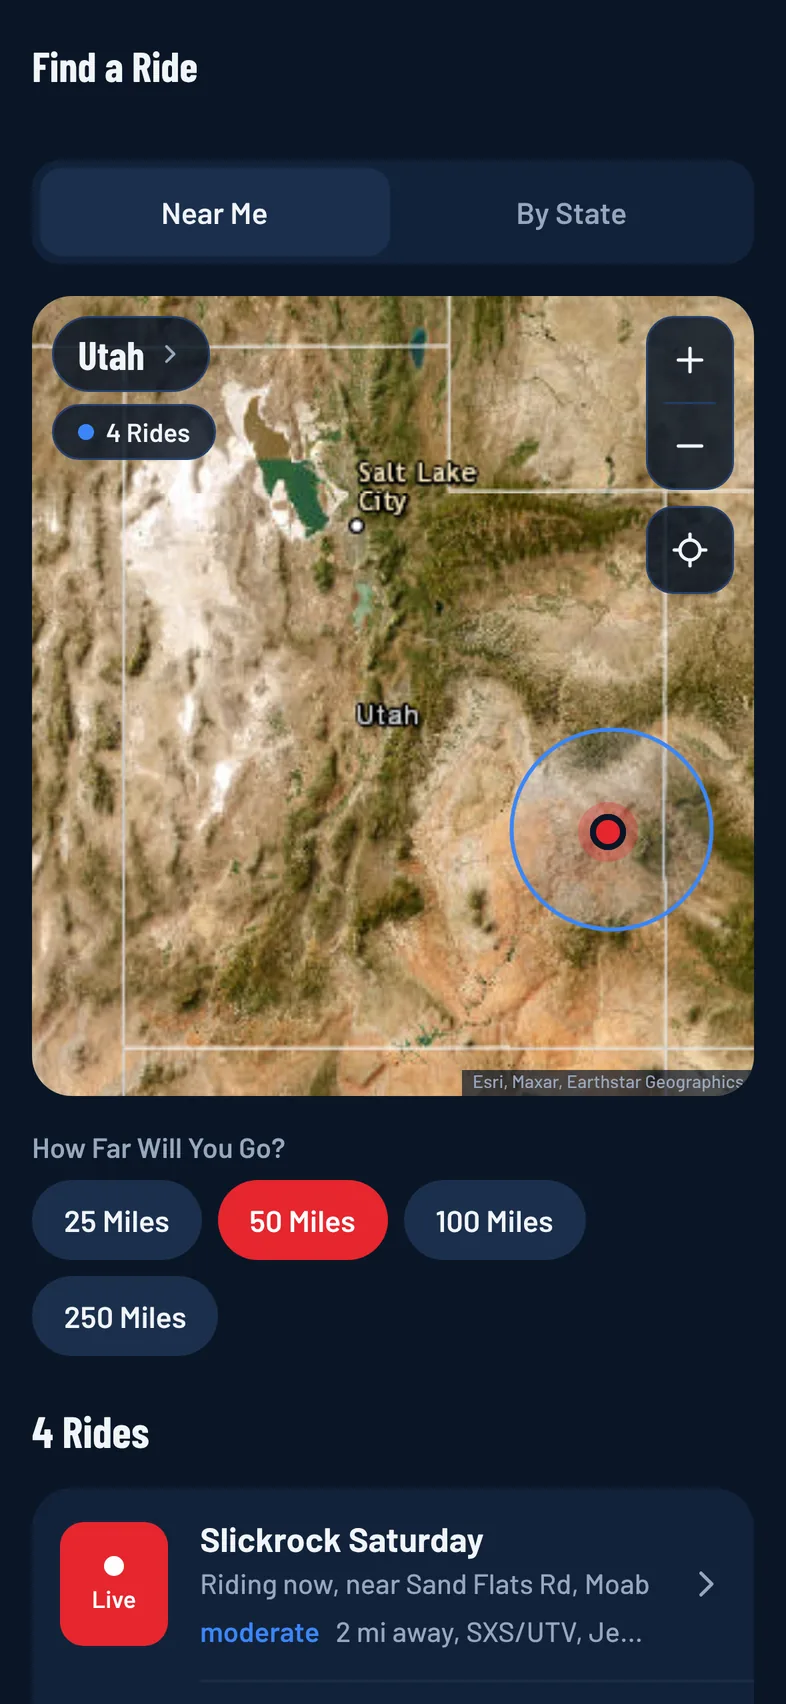
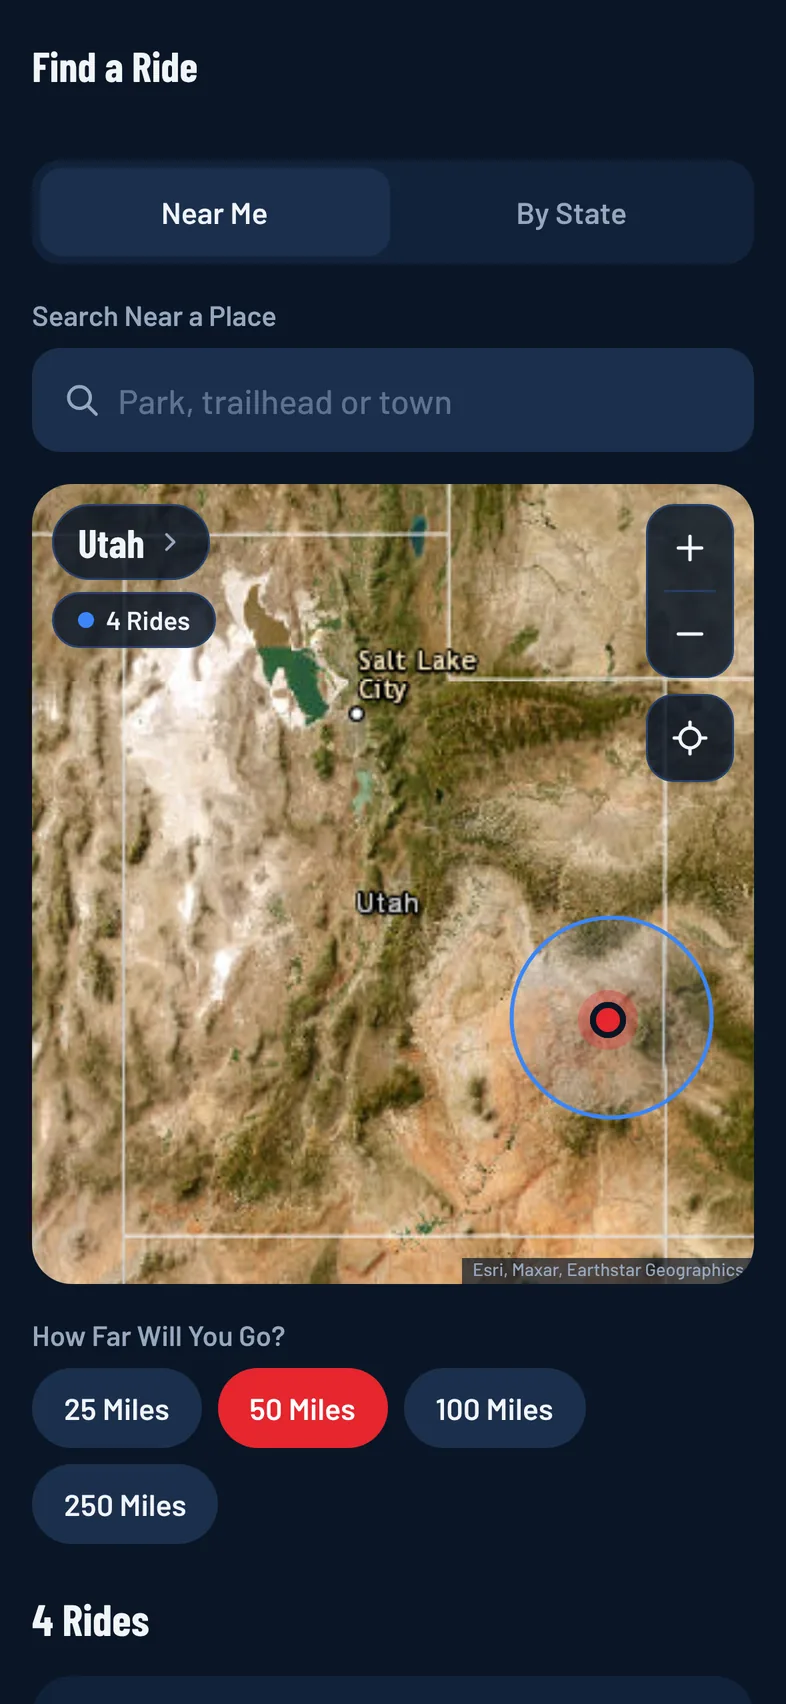
Website: add Mapped or Freeride, place search, waypoints, chat message states and OpenStreetMap trails (#61)
Catch-up pass so the showcase lists what merged in #47, #49, #50, #53, #54 and #56:
- Step 1 Create a Ride: Mapped or Freeride, meeting spot search by park,
  trailhead, town or street address (new screenshot)
- Step 2: find rides near a searched park or trailhead (fresh Find a Ride shot)
- New step 4 Mark the Trail: waypoints, Everyone on the Ride or Just Me, never
  public (screenshot shows planned stops too)
- Talk Without Typing: Sending, Sent, Not Sent with Retry; Mark Resolved and Clear
  your own messages; dismissable pop-ups
- Signal section: OpenStreetMap park trails; Offline Maps marked Pro; live
  positions need a signal
- Privacy draft: waypoints, Photon place search, OpenFreeMap trails, Apple/Google
  Maps hand-off

Claude-Session: https://claude.ai/code/session_01U7Kmf5gw11R8cDSv3YBhZ3

diff --git a/app/src/components/showcase.web.tsx b/app/src/components/showcase.web.tsx
@@ -75,18 +75,18 @@ export function Showcase() {
           <ol className="steps">
             <Step
               n={1}
-              shot="home"
-              alt="The OnMyLead home screen with the big red Create a Ride button"
+              shot="create"
+              alt="Create a Ride with The Route set to Mapped, next to Freeride, and the vehicles welcome"
               title="Create a Ride"
-              text="Set the meeting point, time, difficulty and which machines are welcome. Draw the route on the map or import a GPX file, and choose public, private or approval-only."
-              points={['Pick a ride name other riders see', 'Route miles checked against every machine’s fuel range', 'Hand the lead to another rider at any point']}
+              text="Set the meeting point, time, difficulty and which machines are welcome, and choose public, private or approval-only. Then pick Mapped and draw the route or import a GPX file, or pick Freeride and everyone follows the leader."
+              points={['Search parks, trailheads, towns or a street address for the meeting spot', 'Route miles checked against every machine’s fuel range', 'Hand the lead to another rider at any point']}
             />
             <Step
               n={2}
               shot="find"
-              alt="Find a Ride with a map of Utah and public rides within 50 miles"
+              alt="Find a Ride with a place search, a map of Utah and public rides within 50 miles"
               title="Bring Your Crew"
-              text="Send the ride by link, text or email. Friends see a preview before they make an account, and riders nearby can find public rides by distance or by state."
+              text="Send the ride by link, text or email. Friends see a preview before they make an account, and riders can find public rides near them, by state, or near a park or trailhead they search for."
               points={['Riding Groups invite your whole crew in one tap', 'Follow This Leader to hear about their next public ride', 'Exact meeting spot only shows to riders who join']}
             />
             <Step
@@ -99,11 +99,19 @@ export function Showcase() {
             />
             <Step
               n={4}
+              shot="waypoints"
+              alt="The ride’s waypoints map: two numbered planned stops, a shared Washout hazard, and a camp spot only you see"
+              title="Mark the Trail"
+              text="Press and hold the map to drop a waypoint: camp, fuel, water, a viewpoint, parking or a hazard, with a note. The leader chooses Everyone on the Ride or Just Me, and everyone else’s waypoints stay their own."
+              points={['Shared waypoints show on every rider’s map', 'Never public: only riders on the ride see shared ones', 'Add one at your location with one tap']}
+            />
+            <Step
+              n={5}
               shot="chat"
               alt="Ride chat with two quick polls, Lunch Stop and How’s the Pace"
               title="Talk Without Typing"
               text="Ride chat goes to everyone or just the leader. Announcements are read aloud and pinned, and quick polls settle lunch and the pace with one tap."
-              points={['Pop-ups for new messages while you ride', 'Notification settings with quiet hours', 'Only riders on the ride can read it']}
+              points={['Every message shows Sending, then Sent, or Not Sent with a Retry button', 'Mark your own message Resolved, or Clear it for everyone', 'Pop-ups you can dismiss, and notification settings with quiet hours']}
             />
           </ol>
         </section>
@@ -112,12 +120,13 @@ export function Showcase() {
           <div className="signal-copy">
             <h2 id="signal-title" className="section-title">Made for Where the Signal Ends</h2>
             <p>
-              Trails rarely have service, so OnMyLead plans for it. Every dot says how fresh it is: solid when it’s live,
-              hollow when it only marks where a rider was last seen, so a stale dot never reads as “they’re right here.”
+              Trails rarely have service, so OnMyLead plans for it. Live positions need a signal, so every dot says how
+              fresh it is: solid when it’s live, hollow when it only marks where a rider was last seen, so a stale dot
+              never reads as “they’re right here.”
             </p>
             <ul className="ticks">
-              <li><b>Offline Maps.</b> Save the area before you leave and the map works with no bars.</li>
-              <li><b>Trail and Topo Layers.</b> Public trails and roads over satellite or topo.</li>
+              <li><b>Trails on the Map.</b> Public land trails and roads, plus OpenStreetMap trails in off-road parks like Hidden Falls, named when you tap them. Over satellite or topo.</li>
+              <li><b>Offline Maps (Pro).</b> Save the area and its trails before you leave, and the map works with no bars.</li>
               <li><b>The Route Stays on Your Phone.</b> Once you’ve seen it, it’s there when signal drops.</li>
               <li><b>A Family Link.</b> People at home follow along on a read-only page, no app needed.</li>
             </ul>

diff --git a/app/src/app/privacy.tsx b/app/src/app/privacy.tsx
@@ -22,7 +22,7 @@ export default function Privacy() {
           title: 'What We Collect',
           body: [
             'Account: your email address and password (stored securely by our sign-in provider), and the ride name you pick.',
-            'What you add: rides, routes, Garage machines and photos, trip checklists, Starlink setup, riding groups, ride chat messages and poll votes.',
+            'What you add: rides, routes, waypoints, Garage machines and photos, trip checklists, Starlink setup, riding groups, ride chat messages and poll votes. Waypoints you drop are only yours unless the ride’s leader shares them with the riders on that ride.',
             'Device and app: a push notification token and your notification settings, crash reports (through Sentry) and basic usage events, such as a ride being created, so we can fix problems and improve the app. Crash reports never include your location.',
             'Purchases: if you buy Pro, Apple sends us the subscription’s status and transaction details. We never see your card or payment details.',
             'Website: onmylead.com uses Cloudflare Web Analytics, which counts visits without cookies.',
@@ -31,7 +31,7 @@ export default function Privacy() {
         {
           title: 'Who We Share It With',
           body: [
-            'We do not sell your data or use it for advertising. We share it only with the services that run OnMyLead: Supabase (database and sign-in), Apple (push notifications and purchases), Sentry (crash reports), Resend (emails such as ride cancellations) and Cloudflare (the website). If you look up a VIN in your Garage, that VIN is sent to the US government’s free NHTSA lookup.',
+            'We do not sell your data or use it for advertising. We share it only with the services that run OnMyLead: Supabase (database and sign-in), Apple (push notifications and purchases), Sentry (crash reports), Resend (emails such as ride cancellations) and Cloudflare (the website). If you look up a VIN in your Garage, that VIN is sent to the US government’s free NHTSA lookup. When you search for a park, trailhead or town, only the words you type and a rough map area go to Photon, an OpenStreetMap place search; trail maps are loaded from OpenFreeMap. Neither is told who you are. When you tap Navigate or Directions, the destination opens in Apple Maps or Google Maps, and their own privacy policies apply there.',
             'Other riders see what you share with them: your ride name, the rides you join, your messages on those rides and, while you share, your location.',
             'We may disclose information if the law requires it.',
           ],
